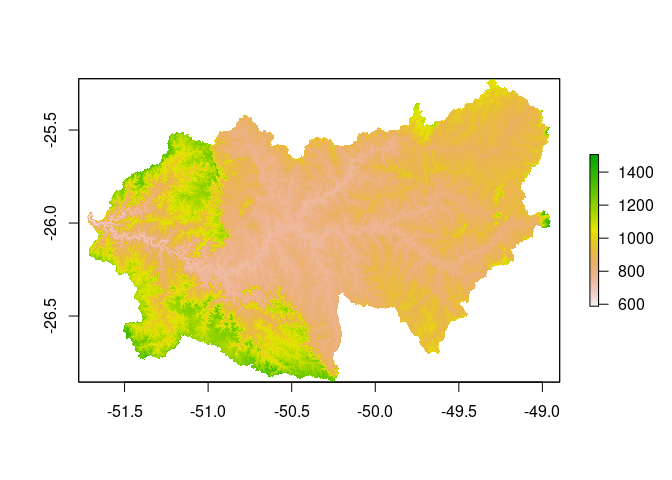
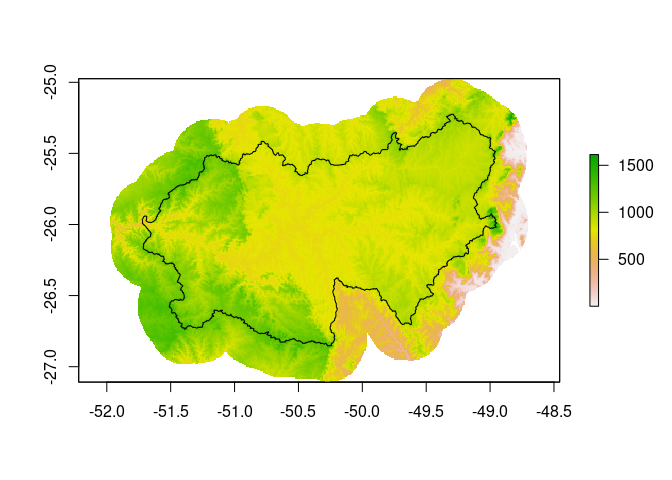
remove elev_bands, example of extract_condem with reproducible data.

diff --git a/README.md b/README.md
@@ -22,11 +22,9 @@ project. The main functions of are:
   - `extract_poly()`: to extract a specific watershed polygon from the
     data set.
 
-  - `extract_condem()`: to crop and mask a geographic subset of the
-    hydrologically conditioned elevation model from Hydrosheds.
-
-  - `elev_bands()`: to get the fractions of precipitation and catchment
-    area by elevation bands
+  - `extract_condem()`: to crop and mask a geographic subset of a
+    raster. In this specific case the raster is a hydrologically
+    conditioned elevation model.
 
 ## Installation
 
@@ -54,12 +52,12 @@ library(raster)
 #> Loading required package: sp
 library(lhmetools)
 library(tidyverse)
-#> ── Attaching packages ────────────────────────────────────────────── tidyverse 1.3.0 ──
+#> ── Attaching packages ─────────────────────────────────────────────────── tidyverse 1.3.0 ──
 #> ✓ ggplot2 3.3.2     ✓ purrr   0.3.4
 #> ✓ tibble  3.0.3     ✓ dplyr   1.0.2
 #> ✓ tidyr   1.1.2     ✓ stringr 1.4.0
 #> ✓ readr   1.3.1     ✓ forcats 0.5.0
-#> ── Conflicts ───────────────────────────────────────────────── tidyverse_conflicts() ──
+#> ── Conflicts ────────────────────────────────────────────────────── tidyverse_conflicts() ──
 #> x tidyr::extract() masks raster::extract()
 #> x dplyr::filter()  masks stats::filter()
 #> x dplyr::lag()     masks stats::lag()
@@ -91,21 +89,21 @@ wherextract <- tempdir()
 # alternatively you can save in the same path as the compacted file
 #wherextract <- file.path(.libPaths()[1], "HEgis", "extdata")
 (shps <- unrar(bhs_rar, dest_dir = wherextract))
-#> /tmp/RtmpFSymWS/BaciasHidrograficasONS_JUNTOS/BaciasHidrograifcasUHEsONS.cpg
-#> /tmp/RtmpFSymWS/BaciasHidrograficasONS_JUNTOS/BaciasHidrograifcasUHEsONS.dbf
-#> /tmp/RtmpFSymWS/BaciasHidrograficasONS_JUNTOS/BaciasHidrograifcasUHEsONS.shp
-#> /tmp/RtmpFSymWS/BaciasHidrograficasONS_JUNTOS/BaciasHidrograifcasUHEsONS.shx
-#> /tmp/RtmpFSymWS/BaciasHidrograficasONS_JUNTOS/LagoBarragemONS.cpg
-#> /tmp/RtmpFSymWS/BaciasHidrograficasONS_JUNTOS/LagoBarragemONS.dbf
-#> /tmp/RtmpFSymWS/BaciasHidrograficasONS_JUNTOS/LagoBarragemONS.shp
-#> /tmp/RtmpFSymWS/BaciasHidrograficasONS_JUNTOS/LagoBarragemONS.shx
+#> /tmp/RtmpFzVfM9/BaciasHidrograficasONS_JUNTOS/BaciasHidrograifcasUHEsONS.cpg
+#> /tmp/RtmpFzVfM9/BaciasHidrograficasONS_JUNTOS/BaciasHidrograifcasUHEsONS.dbf
+#> /tmp/RtmpFzVfM9/BaciasHidrograficasONS_JUNTOS/BaciasHidrograifcasUHEsONS.shp
+#> /tmp/RtmpFzVfM9/BaciasHidrograficasONS_JUNTOS/BaciasHidrograifcasUHEsONS.shx
+#> /tmp/RtmpFzVfM9/BaciasHidrograficasONS_JUNTOS/LagoBarragemONS.cpg
+#> /tmp/RtmpFzVfM9/BaciasHidrograficasONS_JUNTOS/LagoBarragemONS.dbf
+#> /tmp/RtmpFzVfM9/BaciasHidrograficasONS_JUNTOS/LagoBarragemONS.shp
+#> /tmp/RtmpFzVfM9/BaciasHidrograficasONS_JUNTOS/LagoBarragemONS.shx
 ```
 
 Now we select the shapefile of interest and then import it.
 
 ``` r
 (bhs_shp <- shps[grep("Bacias.*\\.shp$", fs::path_file(shps))])
-#> /tmp/RtmpFSymWS/BaciasHidrograficasONS_JUNTOS/BaciasHidrograifcasUHEsONS.shp
+#> /tmp/RtmpFzVfM9/BaciasHidrograficasONS_JUNTOS/BaciasHidrograifcasUHEsONS.shp
 ```
 
 ``` r
@@ -206,47 +204,33 @@ We now use the "station id" (posto) to select the polygon of interest.
 #> [1] 30207.57
 ```
 
-## Conditioned elevation model for a watershed polygon
+## Digital elevation model for a watershed polygon
 
-The hydrologically conditioned elevation for the station can be obtained
-with:
+The digital elevation model for the station can be obtained with:
 
 ``` r
-r <- raster("~/Dropbox/datasets/GIS/hydrosheds/sa_con_3s_hydrosheds.grd")
+rawdem_br <- getData("alt", country = "BRA")
+```
+
+``` r
 condem_posto <- extract_condem(
-  condem = r,
+  condem = rawdem_br,
   poly_station = poly_posto,
-  dis.buf = 0
+  dis.buf = 0.25 # buffer em degrees
 )
+#> Warning in st_buffer.sfc(st_geometry(x), dist, nQuadSegs, endCapStyle =
+#> endCapStyle, : st_buffer does not correctly buffer longitude/latitude data
+#> Warning in showSRID(uprojargs, format = "PROJ", multiline = "NO"): Discarded
+#> datum Unknown based on WGS84 ellipsoid in CRS definition
+#> Warning in showSRID(SRS_string, format = "PROJ", multiline = "NO"): Discarded
+#> datum Unknown based on WGS84 ellipsoid in CRS definition
 plot(condem_posto)
+plot(st_geometry(poly_posto), add = TRUE)
 ```
 
 <img src="man/figures/README-condem-1.png" width="100%" />
 
-## Elevation bands of a watershed polygon
-
-**`{HEgis}`** also provides a function to get the fractions of
-precipitation and catchment area by elevation bands.
-
-``` r
-elev_bands(con_dem = condem_posto, 
-           meteo_raster = precclim74, 
-           dz = 100
-           )
-#>   |                                                                              |                                                                      |   0%  |                                                                              |==================                                                    |  25%  |                                                                              |===================================                                   |  50%  |                                                                              |====================================================                  |  75%  |                                                                              |======================================================================| 100%
-#> 
-#>   |                                                                              |                                                                      |   0%  |                                                                              |===================================                                   |  50%
-#> # A tibble: 10 x 7
-#>     band   inf   sup mean_elev   count   area_frac   prec_frac
-#>    <dbl> <dbl> <dbl>     <dbl>   <int>       <dbl>       <dbl>
-#>  1     1   588   688       638    1084 0.000276    0.000339   
-#>  2     2   688   788       738  521320 0.133       0.133      
-#>  3     3   788   888       838 1545776 0.394       0.385      
-#>  4     4   888   988       938 1014758 0.259       0.255      
-#>  5     5   988  1088      1038  406154 0.104       0.109      
-#>  6     6  1088  1188      1138  309625 0.0789      0.0841     
-#>  7     7  1188  1288      1238  111320 0.0284      0.0301     
-#>  8     8  1288  1388      1338   12934 0.00330     0.00362    
-#>  9     9  1388  1488      1438     409 0.000104    0.000129   
-#> 10    10  1488  1588      1538       3 0.000000765 0.000000994
-```
+The `extract_condem()` function is designed to be used with a
+hydrologically consistent ‘dem’, which required for hydrological
+modeling purposes. But in the example above, a raw DEM was used for the
+purpose of demonstrating the use of the function.
